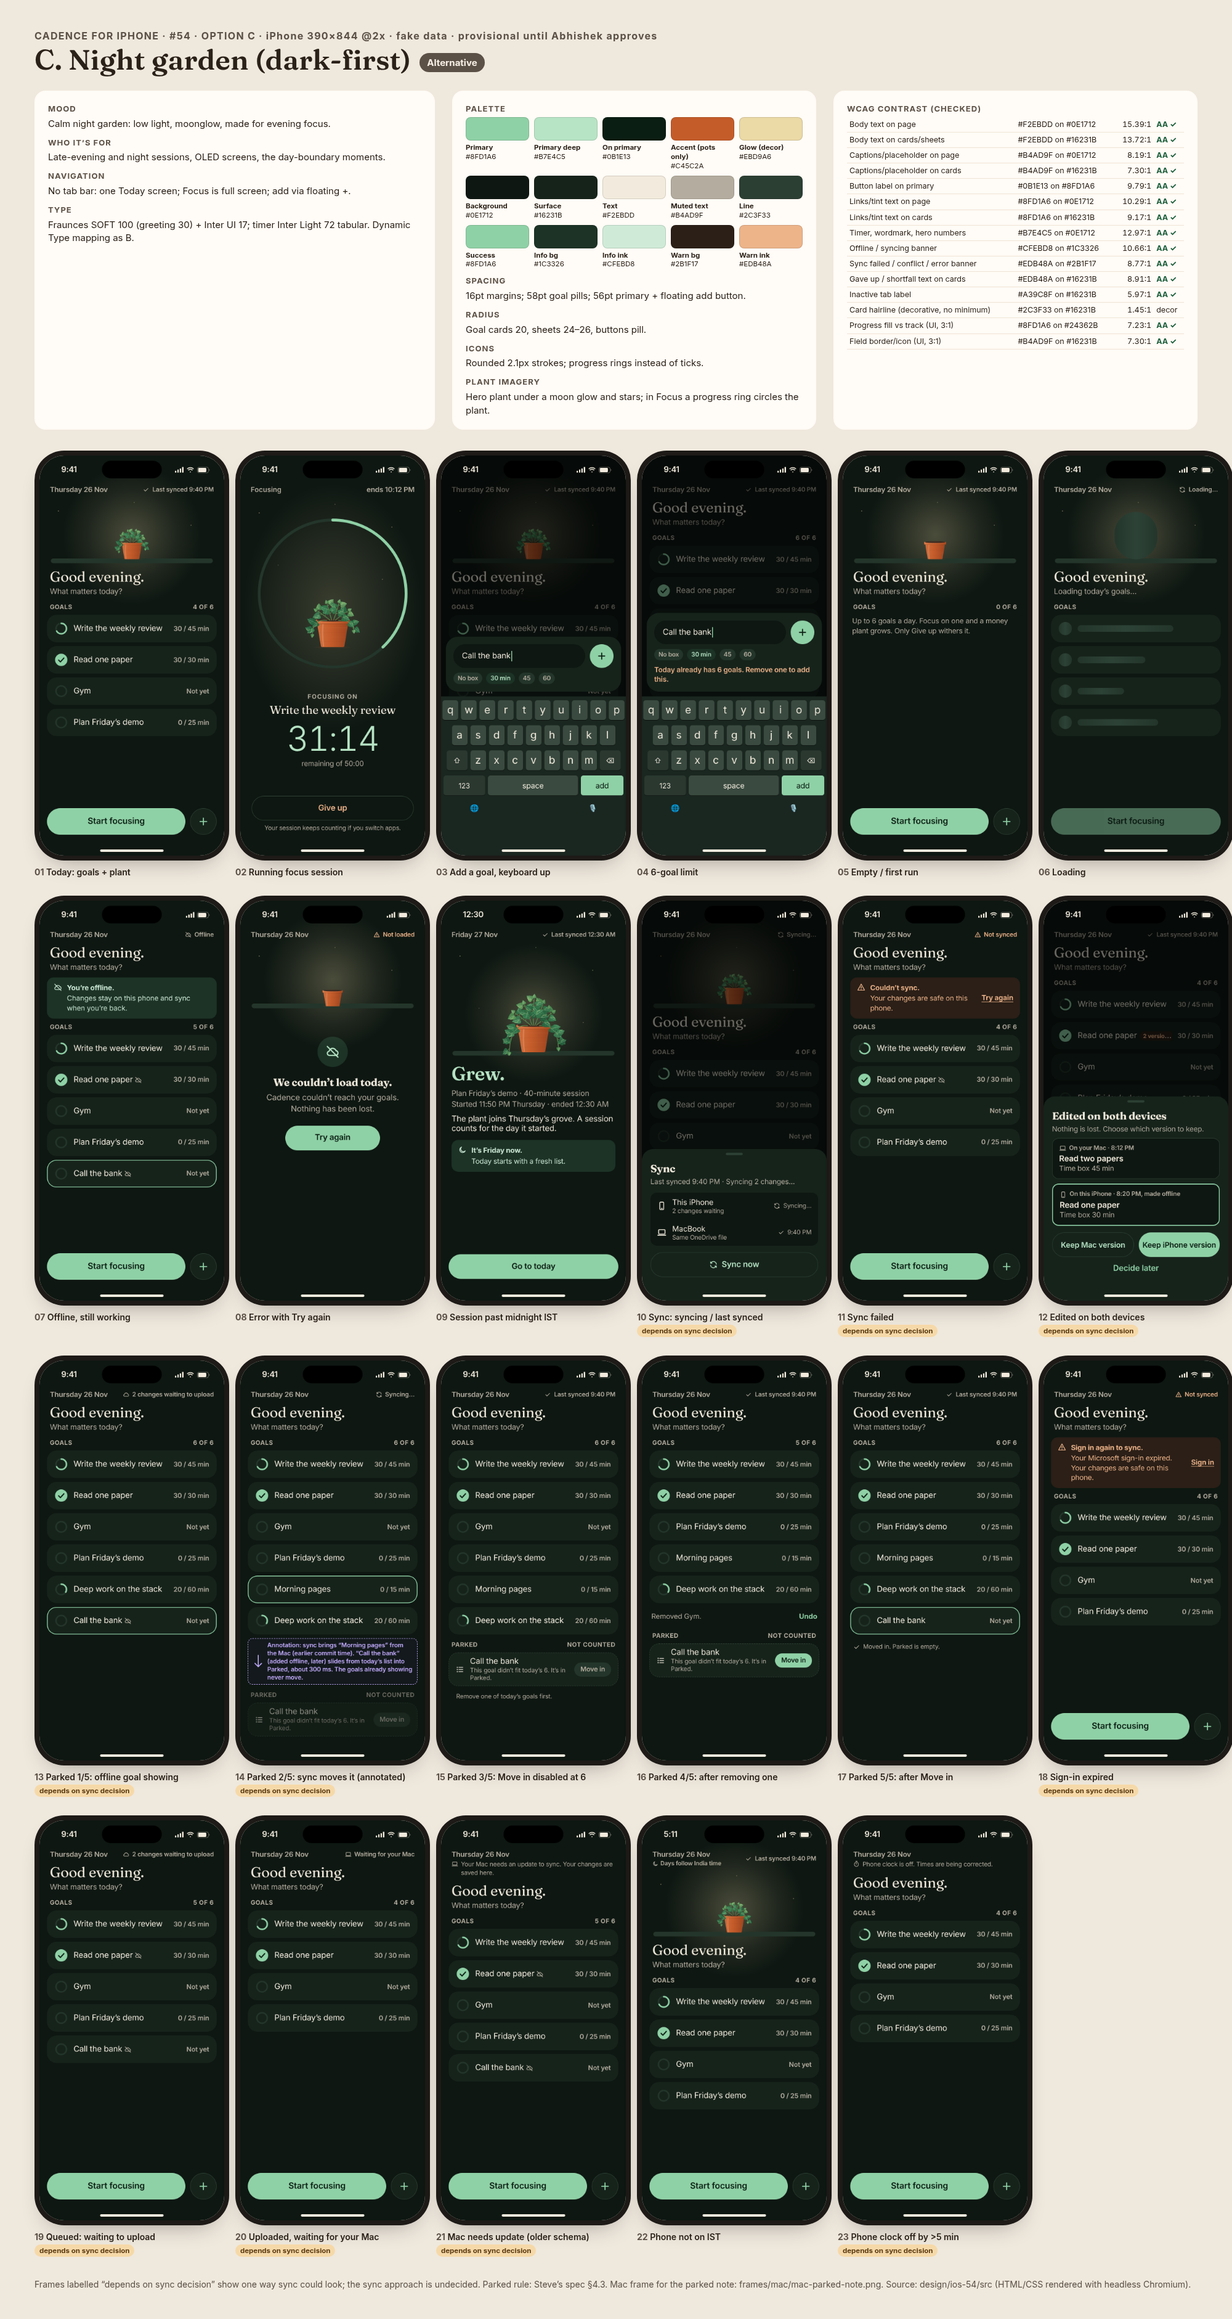
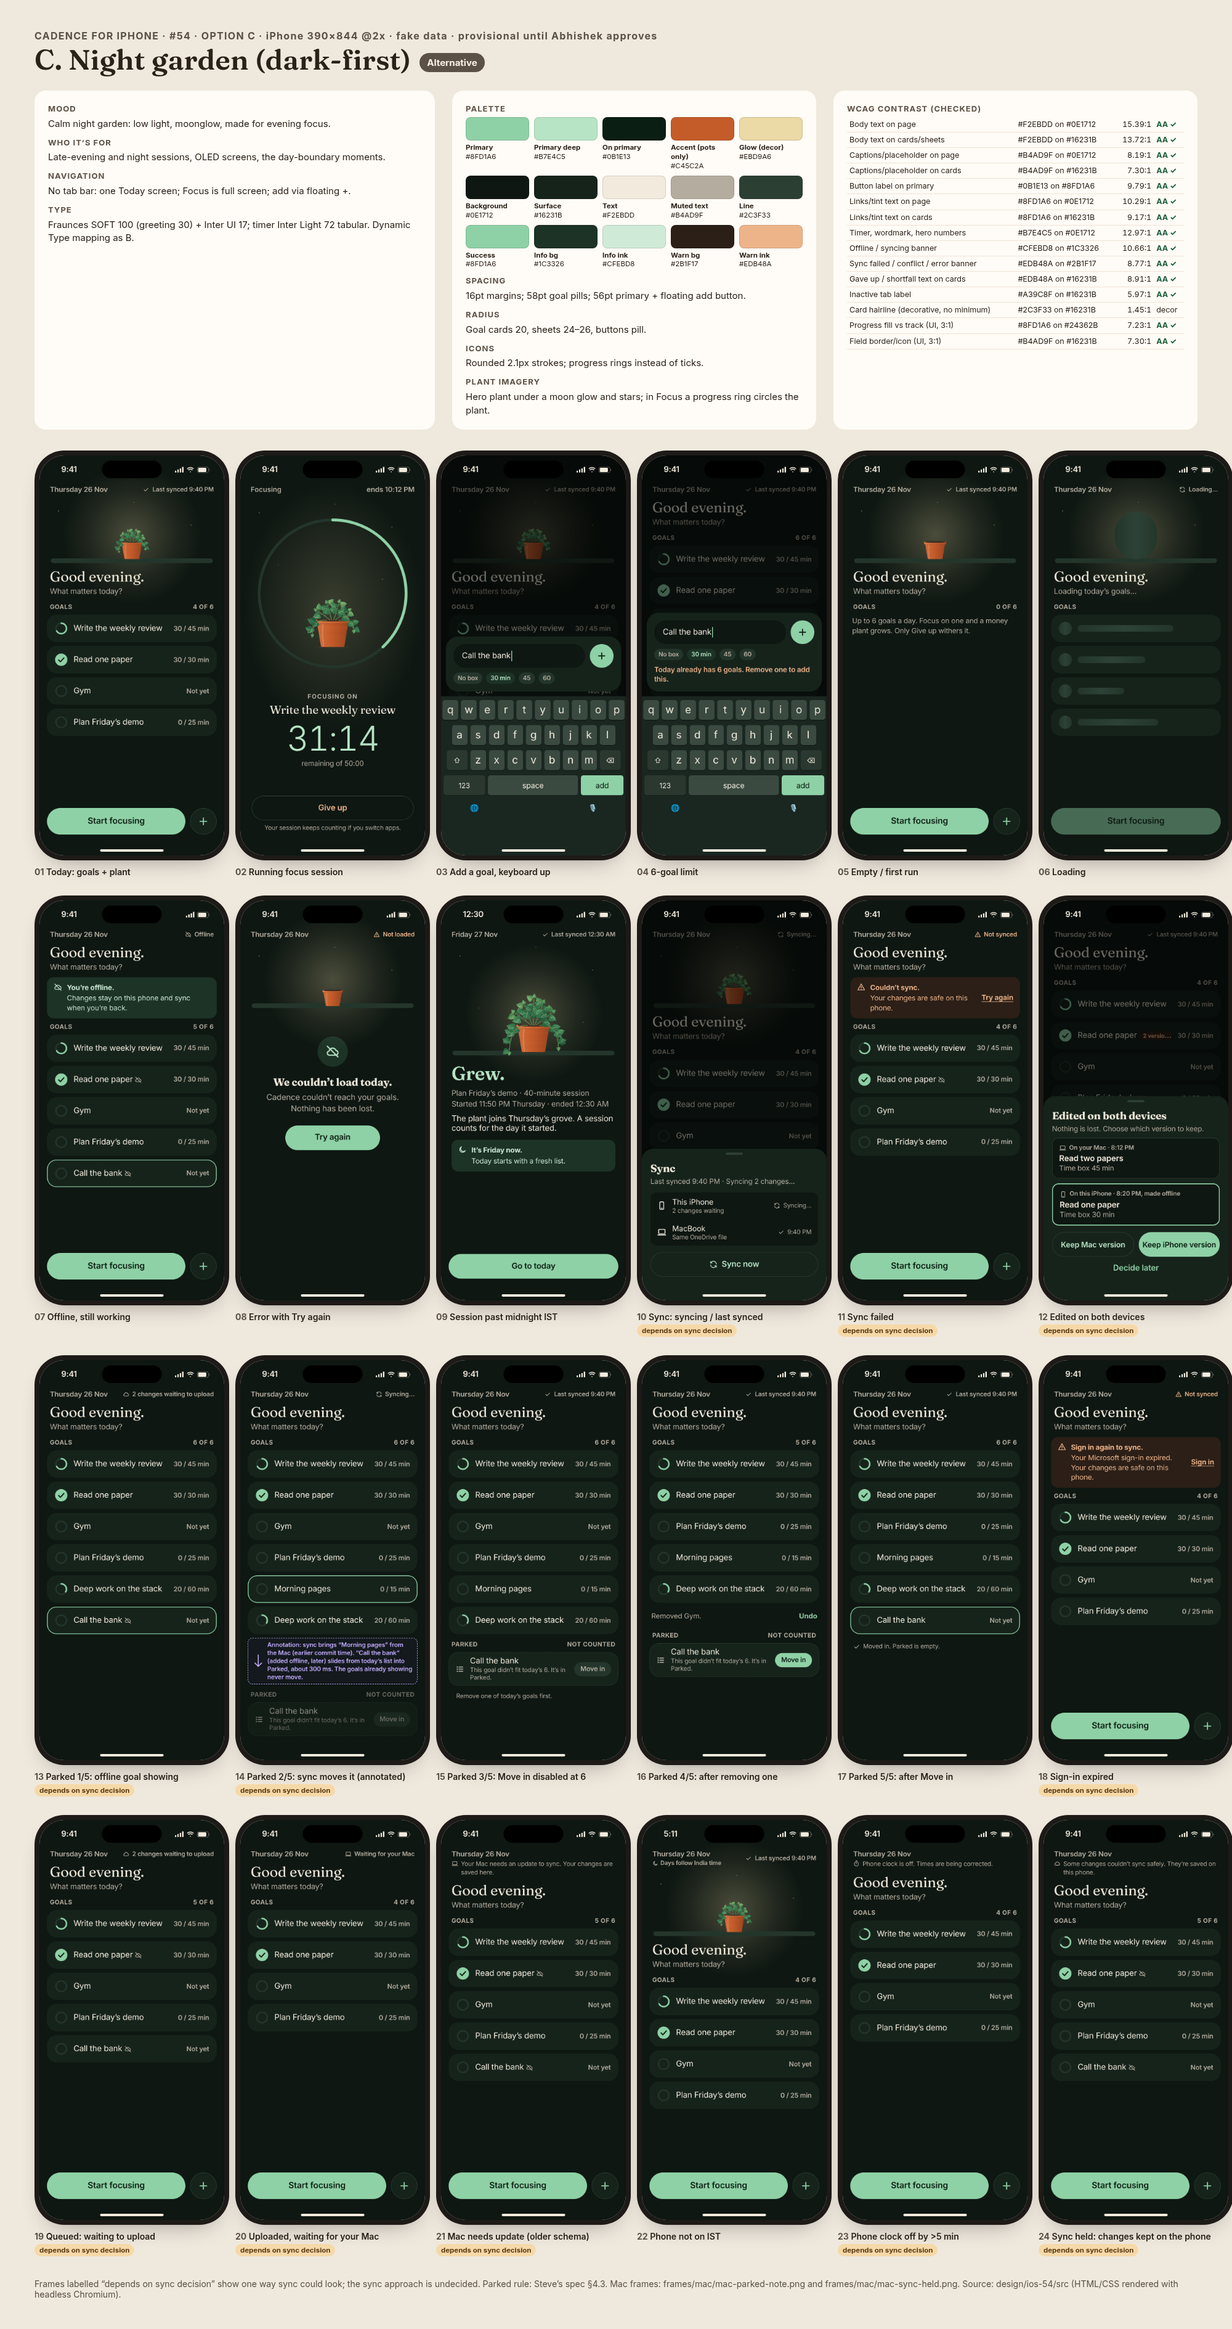
Design (#54): add syncHeld state — phone frame 24 and Mac frame
When the Mac is up to date but both the rollback sidecar and the backup are lost, phone changes are held, not auto-applied. This is not the 'Mac needs update' state. Quiet waiting style; editing stays normal.

diff --git a/design/ios-54/src/mac.py b/design/ios-54/src/mac.py
@@ -1,37 +1,60 @@
-"""Mac (web app, shipped Windowsill look) frame for the parked note. 1280x800 @2x. Fake data."""
+"""Mac (web app, shipped Windowsill look) frames. 1280x800 @2x. Fake data."""
 import asyncio
 from frames import ic, PL, SIX
 from render import render_all, OUT
-TOK = (OUT.parent.parent.parent / "focus-tracker") if False else None
+
 css = open("/workspace/focus-tracker/handoff/tokens.css").read()
-goals = [SIX[0], SIX[1], SIX[2], SIX[3], ("Morning pages", "15 min", "0 / 15 min", False), SIX[5]]
-rows = "".join(f'<div class="g"><span class="n">{i}</span><span class="tt">{t}</span><span class="bx">{d}</span></div>' for i, (t, b, d, h) in enumerate(goals, 1))
-html = f"""<!doctype html><html><head><meta charset=utf-8><style>{css}
+BASE = f"""<!doctype html><html><head><meta charset=utf-8><style>{css}
 *{{box-sizing:border-box;margin:0;padding:0}} body{{width:1280px;height:800px;background:var(--bg);font-family:var(--font-ui);color:var(--text);overflow:hidden}}
 .chrome{{height:46px;background:var(--chrome);border-bottom:1px solid var(--chrome-line);display:flex;align-items:center;padding:0 16px;gap:8px}}
 .dot{{width:12px;height:12px;border-radius:50%}} .url{{margin:0 auto;width:360px;height:28px;border-radius:8px;background:var(--url-bg);font-size:13px;color:var(--text-muted);display:flex;align-items:center;justify-content:center}}
 .wrap{{display:grid;grid-template-columns:1fr 520px;height:754px;background:radial-gradient(60% 70% at 20% 60%,#F6D9A8 0%,rgba(246,217,168,.2) 45%,transparent 75%)}}
 .left{{position:relative}} .wm{{position:absolute;top:28px;left:56px;font-family:var(--font-display);font-weight:600;font-size:27px;color:var(--leaf-deep)}}
 .sill{{position:absolute;left:0;right:0;bottom:60px;height:26px;background:linear-gradient(var(--sill-top),var(--sill-bot));border-top:1px solid var(--sill-edge)}}
-.panel{{background:var(--surface);margin:24px 32px 24px 0;border-radius:24px;padding:32px 36px;box-shadow:var(--shadow-sheet)}}
+.panel{{background:var(--surface);margin:24px 32px 24px 0;border-radius:24px;padding:32px 36px;box-shadow:var(--shadow-sheet);display:flex;flex-direction:column}}
 h1{{font-family:var(--font-display);font-size:36px;font-weight:600}} .sub{{color:var(--text-muted);font-size:17px;margin:4px 0 16px}}
 .lbl{{font-size:13px;font-weight:700;color:var(--text-muted);margin:12px 0 8px;display:flex;justify-content:space-between}}
 .g{{display:flex;align-items:center;gap:12px;border:1.5px solid var(--line);border-radius:14px;height:46px;padding:0 14px;margin-bottom:7px;font-size:16px;background:var(--surface)}}
 .n{{width:24px;height:24px;border-radius:50%;background:var(--track);display:flex;align-items:center;justify-content:center;font-family:var(--font-display);font-size:14px;color:var(--text-muted)}}
 .tt{{flex:1}} .bx{{font-size:14px;color:var(--text-muted);font-weight:600}}
-.note{{display:flex;gap:8px;align-items:center;background:var(--leaf-wash);color:var(--leaf-deep);border-radius:12px;padding:10px 12px;font-size:15px;font-weight:600;margin-bottom:8px}}
+.note{{display:flex;gap:8px;align-items:flex-start;background:var(--leaf-wash);color:var(--leaf-deep);border-radius:12px;padding:10px 12px;font-size:15px;font-weight:600;margin-bottom:8px;line-height:1.35}}
 .pg{{border:1.5px dashed var(--line);border-radius:14px;padding:10px 14px;display:flex;align-items:center;gap:12px}}
 .pk{{height:32px;padding:0 14px;border-radius:999px;background:var(--track);color:var(--text-muted);font-weight:600;font-size:14px;display:flex;align-items:center}}
 .hint{{font-size:13px;color:var(--text-muted);margin-top:6px}}
+.foot{{margin-top:auto;padding-top:16px;font-size:13.5px;font-weight:600;color:var(--text-muted);display:flex;gap:6px;align-items:center}}
 </style></head><body>
 <div class=chrome><span class=dot style="background:#E8A89A"></span><span class=dot style="background:#E9CF8F"></span><span class=dot style="background:#A9C9A0"></span><div class=url>Cadence · Today</div></div>
 <div class=wrap><div class=left><div class=wm>Cadence</div>
-<img src="{PL('mid')}" style="position:absolute;left:220px;bottom:78px;width:230px"><div class=sill></div></div>
-<div class=panel><h1>Good evening.</h1><p class=sub>Thursday 26 Nov · What matters today?</p>
-<div class=lbl><span>Goals</span><span>6 of 6</span></div>{rows}
+<img src="{{plant}}" style="position:absolute;left:220px;bottom:78px;width:230px"><div class=sill></div></div>
+<div class=panel>{{panel}}</div></div></body></html>"""
+
+def rows(goals):
+    return "".join(f'<div class="g"><span class="n">{i}</span><span class="tt">{t}</span><span class="bx">{d}</span></div>'
+                   for i, (t, b, d, h) in enumerate(goals, 1))
+
+parked_goals = [SIX[0], SIX[1], SIX[2], SIX[3], ("Morning pages", "15 min", "0 / 15 min", False), SIX[5]]
+parked = BASE.replace("{plant}", PL("mid")).replace("{panel}", f"""
+<h1>Good evening.</h1><p class=sub>Thursday 26 Nov · What matters today?</p>
+<div class=lbl><span>Goals</span><span>6 of 6</span></div>{rows(parked_goals)}
 <div class=lbl style="margin-top:16px"><span>Parked</span><span>not counted</span></div>
 <div class=note>{ic("list",16,1.75)}1 goal synced from your phone didn’t fit today’s 6. It’s in Parked.</div>
 <div class=pg><span class=tt>Call the bank</span><span class=pk aria-disabled=true>Move in</span></div>
-<p class=hint>Remove one of today’s goals first.</p></div></div></body></html>"""
-asyncio.run(render_all([(OUT / "frames" / "mac" / "mac-parked-note.png", html, 1280, 800)]))
-print("ok")
+<p class=hint>Remove one of today’s goals first.</p>""")
+
+# Today is unchanged (Mac already has the newer edits). The held phone changes stay on the phone.
+held_goals = [("Write the weekly review", "45 min", "30 / 45 min", False),
+              ("Read one paper", "30 min", "30 / 30 min", True),
+              ("Gym", "", "Not yet", False),
+              ("Plan Friday’s demo", "25 min", "0 / 25 min", False)]
+held = BASE.replace("{plant}", PL("mid")).replace("{panel}", f"""
+<h1>Good evening.</h1><p class=sub>Thursday 26 Nov · What matters today?</p>
+<div class=note>{ic("cloud",16,1.75)}3 changes from your phone weren’t applied, to avoid overwriting newer edits.</div>
+<div class=lbl><span>Goals</span><span>4 of 6</span></div>{rows(held_goals)}
+<div class=foot>{ic("check",14,1.75)}Saved · OneDrive folder</div>""")
+
+jobs = [
+    (OUT / "frames" / "mac" / "mac-parked-note.png", parked, 1280, 800),
+    (OUT / "frames" / "mac" / "mac-sync-held.png", held, 1280, 800),
+]
+asyncio.run(render_all(jobs))
+print("ok", len(jobs))

diff --git a/design/ios-54/src/boards.py b/design/ios-54/src/boards.py
@@ -61,7 +61,7 @@ def option_board(k):
 <div class=card><h3>Palette</h3><div class=sw>{sw}</div><h3>Spacing</h3>{m['space']}<h3>Radius</h3>{m['radius']}<h3>Icons</h3>{m['icons']}<h3>Plant imagery</h3>{m['plant']}</div>
 <div class=card><h3>WCAG contrast (checked)</h3><table>{rows}</table></div></div>
 <div class=grid>{grid}</div>
-<p class=foot>Frames labelled “depends on sync decision” show one way sync could look; the sync approach is undecided. Parked rule: Steve’s spec §4.3. Mac frame for the parked note: frames/mac/mac-parked-note.png. Source: design/ios-54/src (HTML/CSS rendered with headless Chromium).</p>
+<p class=foot>Frames labelled “depends on sync decision” show one way sync could look; the sync approach is undecided. Parked rule: Steve’s spec §4.3. Mac frames: frames/mac/mac-parked-note.png and frames/mac/mac-sync-held.png. Source: design/ios-54/src (HTML/CSS rendered with headless Chromium).</p>
 </body></html>"""
 
 def overview():
@@ -82,7 +82,7 @@ def overview():
     return f"""<!doctype html><html><head><meta charset=utf-8><style>{css}</style></head><body>
 <p style="font-weight:700;color:#5C5146;letter-spacing:.08em">CADENCE FOR IPHONE · #54 · VISUAL DIRECTION OPTIONS · Iris (Design), 26 Nov 2026 · fake data · provisional until Abhishek approves</p>
 <h1>Three iPhone directions from the shipped Windowsill look</h1>
-<p class=m style="font-size:17px">Each column: Today · Focus · Add goal (keyboard) · Parked with Move in disabled · Session past midnight IST. All 23 frames per option are on the option boards.</p>
+<p class=m style="font-size:17px">Each column: Today · Focus · Add goal (keyboard) · Parked with Move in disabled · Session past midnight IST. All 24 frames per option are on the option boards.</p>
 <div class=why>{why}</div>{cols}</body></html>"""
 
 jobs = [(OUT / "boards" / f"{o['slug']}.png", option_board(k), 2000, 2600) for k, o in OPTIONS.items()]

diff --git a/design/ios-54/src/frames.py b/design/ios-54/src/frames.py
@@ -250,7 +250,8 @@ def status_line(kind):
             "queued": (ic("cloud", 14), "2 changes waiting to upload"),
             "waiting": (ic("laptop", 14), "Waiting for your Mac"),
             "clock": (ic("timer", 14), "Phone clock is off. Times are being corrected."),
-            "macupdate": (ic("laptop", 14), "Your Mac needs an update to sync. Your changes are saved here.")}[kind]
+            "macupdate": (ic("laptop", 14), "Your Mac needs an update to sync. Your changes are saved here."),
+            "syncheld": (ic("cloud", 14), "Some changes couldn’t sync safely. They’re saved on this phone.")}[kind]
 
 def banner(kind, title, body="", act=""):
     icn = {"info": "cloudoff", "warn": "alert", "ok": "sync", "park": "list"}[kind]
@@ -555,6 +556,11 @@ def s_macupdate(o):
 def s_clock(o):
     return page(o, today_view(o, GOALS, status="clock", plant=None))
 
+def s_syncheld(o):
+    """Mac is up to date but refused to auto-apply because the rollback sidecar and backup are both lost. Not 'Mac needs update'."""
+    g = [GOALS[0], (GOALS[1][0], GOALS[1][1], GOALS[1][2], True, "unsynced"), GOALS[2], GOALS[3], ("Call the bank", "", "Not yet", False, "unsynced")]
+    return page(o, today_view(o, g, status="syncheld", plant=None))
+
 def s_tz(o):
     return page(o, today_view(o, GOALS, tz=True), t="5:11")
 
@@ -586,4 +592,5 @@ SCREENS = [
  ("21-mac-needs-update", "Mac needs update (older schema)", s_macupdate, "depends on sync decision"),
  ("22-not-ist-hint", "Phone not on IST", s_tz, ""),
  ("23-phone-clock-off", "Phone clock off by >5 min", s_clock, "depends on sync decision"),
+ ("24-sync-held", "Sync held: changes kept on the phone", s_syncheld, "depends on sync decision"),
 ]

diff --git a/design/ios-54/README.md b/design/ios-54/README.md
@@ -23,11 +23,11 @@ Overview of all three: [boards/00-overview.png](boards/00-overview.png).
 
 ## Frames (each option: `frames/<A|B|C>/`)
 
-01 Today (goals + plant) · 02 Running focus session · 03 Add a goal, keyboard up · 04 6-goal limit (“Today already has 6 goals. Remove one to add this.”) · 05 Empty / first run (B: MOCKED Microsoft sign-in) · 06 Loading · 07 Offline, still working · 08 Error with Try again · 09 Session past midnight IST · 10 Sync: syncing / last synced* · 11 Sync failed* · 12 Edited on both devices* · 13–17 Parked sequence (offline goal showing → sync moves it to Parked, annotated → Move in disabled at 6 → after removing one, Move in enabled → after Move in)* · 18 Sign-in expired* · 19 “2 changes waiting to upload”* · 20 “Waiting for your Mac”* · 21 “Your Mac needs an update to sync. Your changes are saved here.”* · 22 Phone not on IST (“Days follow India time”) · 23 “Phone clock is off. Times are being corrected.”*
+01 Today (goals + plant) · 02 Running focus session · 03 Add a goal, keyboard up · 04 6-goal limit (“Today already has 6 goals. Remove one to add this.”) · 05 Empty / first run (B: MOCKED Microsoft sign-in) · 06 Loading · 07 Offline, still working · 08 Error with Try again · 09 Session past midnight IST · 10 Sync: syncing / last synced* · 11 Sync failed* · 12 Edited on both devices* · 13–17 Parked sequence (offline goal showing → sync moves it to Parked, annotated → Move in disabled at 6 → after removing one, Move in enabled → after Move in)* · 18 Sign-in expired* · 19 “2 changes waiting to upload”* · 20 “Waiting for your Mac”* · 21 “Your Mac needs an update to sync. Your changes are saved here.”* · 22 Phone not on IST (“Days follow India time”) · 23 “Phone clock is off. Times are being corrected.”* · 24 “Some changes couldn’t sync safely. They’re saved on this phone.”*
 
 \* Labelled **depends on sync decision** on the boards. The sync approach is undecided; these frames show one calm way it could look.
 
-Mac frame (shipped web look): [`frames/mac/mac-parked-note.png`](frames/mac/mac-parked-note.png). The Parked note there reads “1 goal synced from your phone didn’t fit today’s 6. It’s in Parked.” On the phone, the parked goal carries the inline note “This goal didn’t fit today’s 6. It’s in Parked.” There are no other parked copy variants. The demo banner (“Demo data, not synced”) shows on B frames that use the mock adapter (01–06).
+Mac frames (shipped web look): [`frames/mac/mac-parked-note.png`](frames/mac/mac-parked-note.png) (Parked note: “1 goal synced from your phone didn’t fit today’s 6. It’s in Parked.”) and [`frames/mac/mac-sync-held.png`](frames/mac/mac-sync-held.png) (syncHeld: “3 changes from your phone weren’t applied, to avoid overwriting newer edits.” The count is from the data and is plural-aware: “1 change … wasn’t applied”). On the phone, the parked goal carries the inline note “This goal didn’t fit today’s 6. It’s in Parked.” There are no other parked copy variants. The demo banner (“Demo data, not synced”) shows on B frames that use the mock adapter (01–06).
 
 The lock-screen and Live Activity concept was dropped, because notifications and widgets are out of v1.
 

diff --git a/design/ios-54/component-specs-ios.md b/design/ios-54/component-specs-ios.md
@@ -68,12 +68,14 @@ Rule: Steve’s spec §4.3 ([Notion](https://app.notion.com/p/4240cf07a801817484
   - **waiting for Mac:** laptop + “Waiting for your Mac” (edits uploaded but not yet merged)
   - **Mac needs update:** laptop + “Your Mac needs an update to sync. Your changes are saved here.” Shown when the Mac’s server uses an older data-file schema. Neutral/waiting style (`--ios-label-2`), never warn or red. Editing stays normal; edits queue and rows show the not-synced marker. Wraps to its own line under the date. Frame 21.
   - **Phone clock off:** timer icon + “Phone clock is off. Times are being corrected.” Shown when the phone clock is more than 5 minutes off OneDrive’s time. Neutral style, not blocking; editing stays normal. Frame 23.
+  - **syncHeld:** cloud + “Some changes couldn’t sync safely. They’re saved on this phone.” Shown when the Mac is already up to date but refuses to auto-apply phone changes because both the rollback sidecar and the backup are lost. This is not “Mac needs update”. Quiet waiting style (`--ios-label-2`), never warn or red. Editing stays normal; held edits stay on the phone and rows show the not-synced marker. Wraps to its own line under the date. Frame 24.
   - offline: cloud-slash + “Offline”
   - failed: alert + “Not synced” in `--ios-warn-ink`
-- Same spot and style for every state; only the icon and words change. Frames 01, 10, 11, 18–21, 23. Long states wrap to their own line under the date.
+- Same spot and style for every state; only the icon and words change. Frames 01, 10, 11, 18–21, 23, 24. Long states wrap to their own line under the date.
 - Tapping the line opens a small **Sync sheet**: device rows (“This iPhone”, “MacBook”), “Last synced 9:40 PM”, queued changes (“2 changes waiting”), and “Sync now”.
 - **Offline banner** (info): “You’re offline. Changes stay on this phone and sync when you’re back.”
 - **Sync failed banner** (warn): title “Couldn’t sync.” body “Your changes are safe on this phone.” action “Try again”.
+- **syncHeld, on the Mac** (frame `frames/mac/mac-sync-held.png`): a quiet info note, not an error, with a count from the data, plural-aware. One: “1 change from your phone wasn’t applied, to avoid overwriting newer edits.” Several, as in the mock: “3 changes from your phone weren’t applied, to avoid overwriting newer edits.”
 - **Edited on both devices** (conflict) sheet: title “Edited on both devices”, body “Nothing is lost. Choose which version to keep.” Two cards, **On your Mac** (time) and **On this iPhone** (time, “made offline”), each with its title and time box; buttons “Keep Mac version” / “Keep iPhone version”, and “Decide later” text button. Until chosen the row shows the iPhone version with a small “2 versions” chip in `--ios-warn-ink`.
 
 ## 8. First-run sign-in — **MOCKED**
